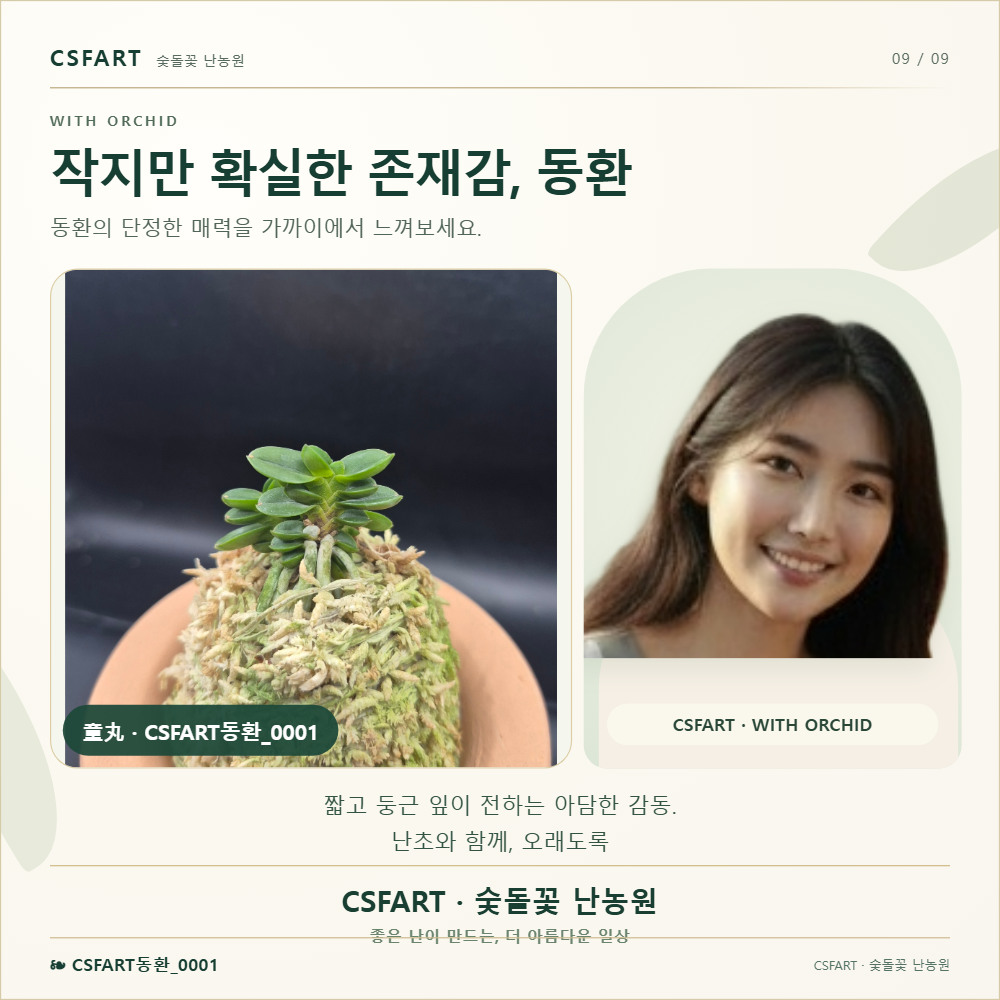
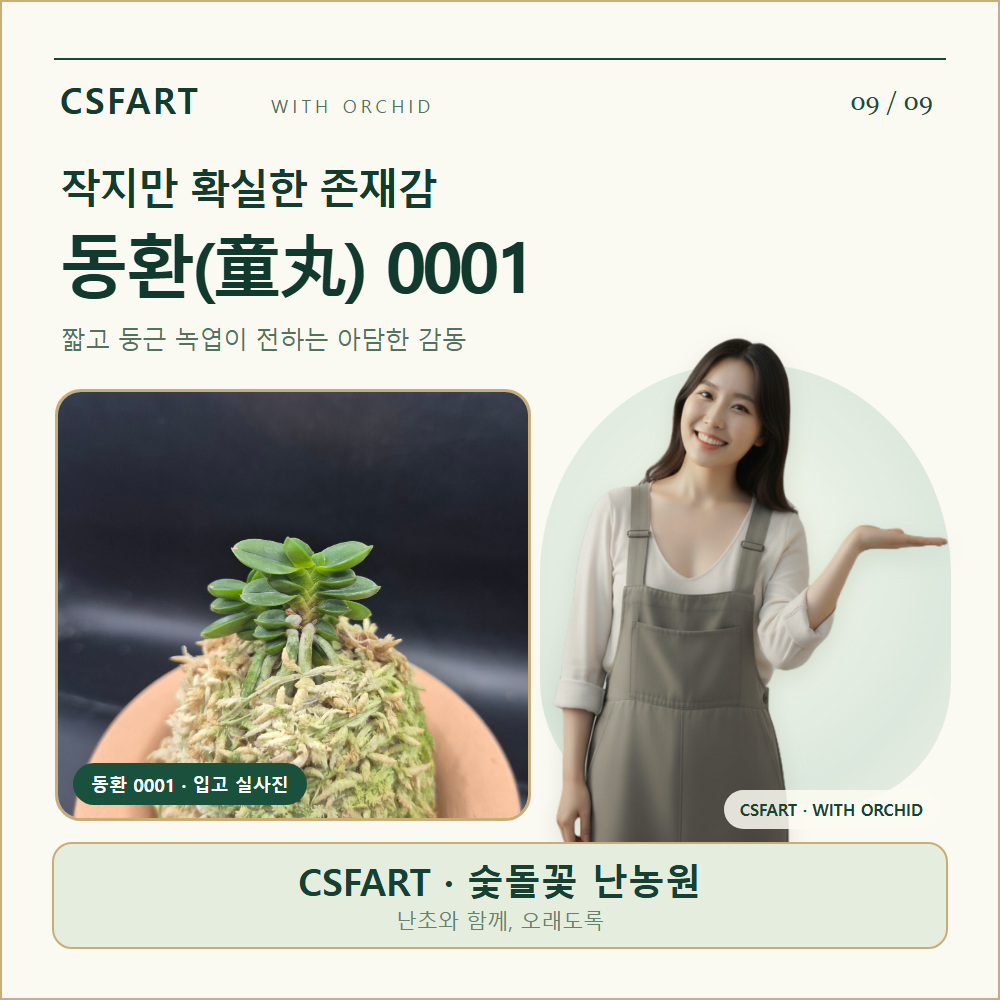
Fix Donghwan 0001 brand ending with full-body studio model

diff --git a/product/donghwan-0001.html b/product/donghwan-0001.html
@@ -30,7 +30,7 @@
 <figure><a href="../images/donghwan0001/guide_06.jpg" target="_blank" rel="noopener"><img src="../images/donghwan0001/guide_06.jpg" loading="lazy" alt="동환 0001 설명 06장 · 다양한 각도에서 보는 동환"></a><figcaption>06/09 · 다양한 각도에서 보는 동환</figcaption></figure>
 <figure><a href="../images/donghwan0001/guide_07.jpg" target="_blank" rel="noopener"><img src="../images/donghwan0001/guide_07.jpg" loading="lazy" alt="동환 0001 설명 07장 · 소형 풍란의 감상 포인트"></a><figcaption>07/09 · 소형 풍란의 감상 포인트</figcaption></figure>
 <figure><a href="../images/donghwan0001/guide_08.jpg" target="_blank" rel="noopener"><img src="../images/donghwan0001/guide_08.jpg" loading="lazy" alt="동환 0001 설명 08장 · 재배와 관리의 기본"></a><figcaption>08/09 · 재배와 관리의 기본</figcaption></figure>
-<figure><a href="../images/donghwan0001/guide_09.jpg" target="_blank" rel="noopener"><img src="../images/donghwan0001/guide_09.jpg" loading="lazy" alt="동환 0001 설명 09장 · CSFART · 숯돌꽃 난농원 브랜드 엔딩"></a><figcaption>09/09 · CSFART · 숯돌꽃 난농원 브랜드 엔딩</figcaption></figure></section>
+<figure><a href="../images/donghwan0001/guide_09.jpg?v=naturalfullbody-444278e8" target="_blank" rel="noopener"><img src="../images/donghwan0001/guide_09.jpg?v=naturalfullbody-444278e8" loading="lazy" alt="동환 0001 설명 09장 · CSFART · 숯돌꽃 난농원 브랜드 엔딩"></a><figcaption>09/09 · CSFART · 숯돌꽃 난농원 브랜드 엔딩</figcaption></figure></section>
 <section class="buy"><h2>동환(童丸) 0001 · 70,000원</h2>
 <p>동환 0001의 구매 및 판매 조건은 CSFART 스마트스토어에서 확인할 수 있습니다.</p>
 <a href="https://smartstore.naver.com/csfart/products/13817033498" target="_blank" rel="noopener noreferrer">네이버에서 구매하기 ↗</a>
